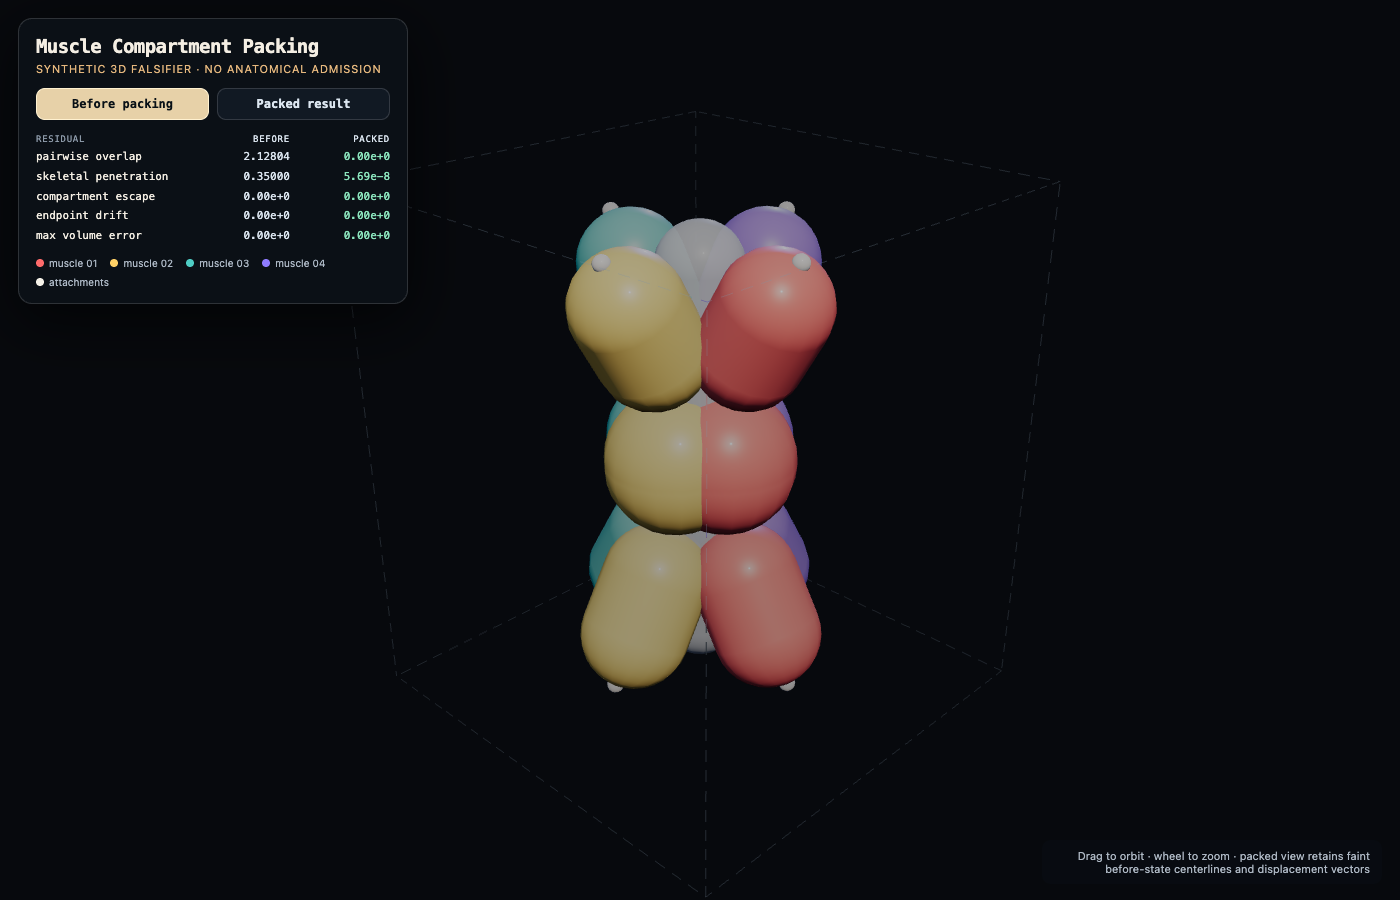
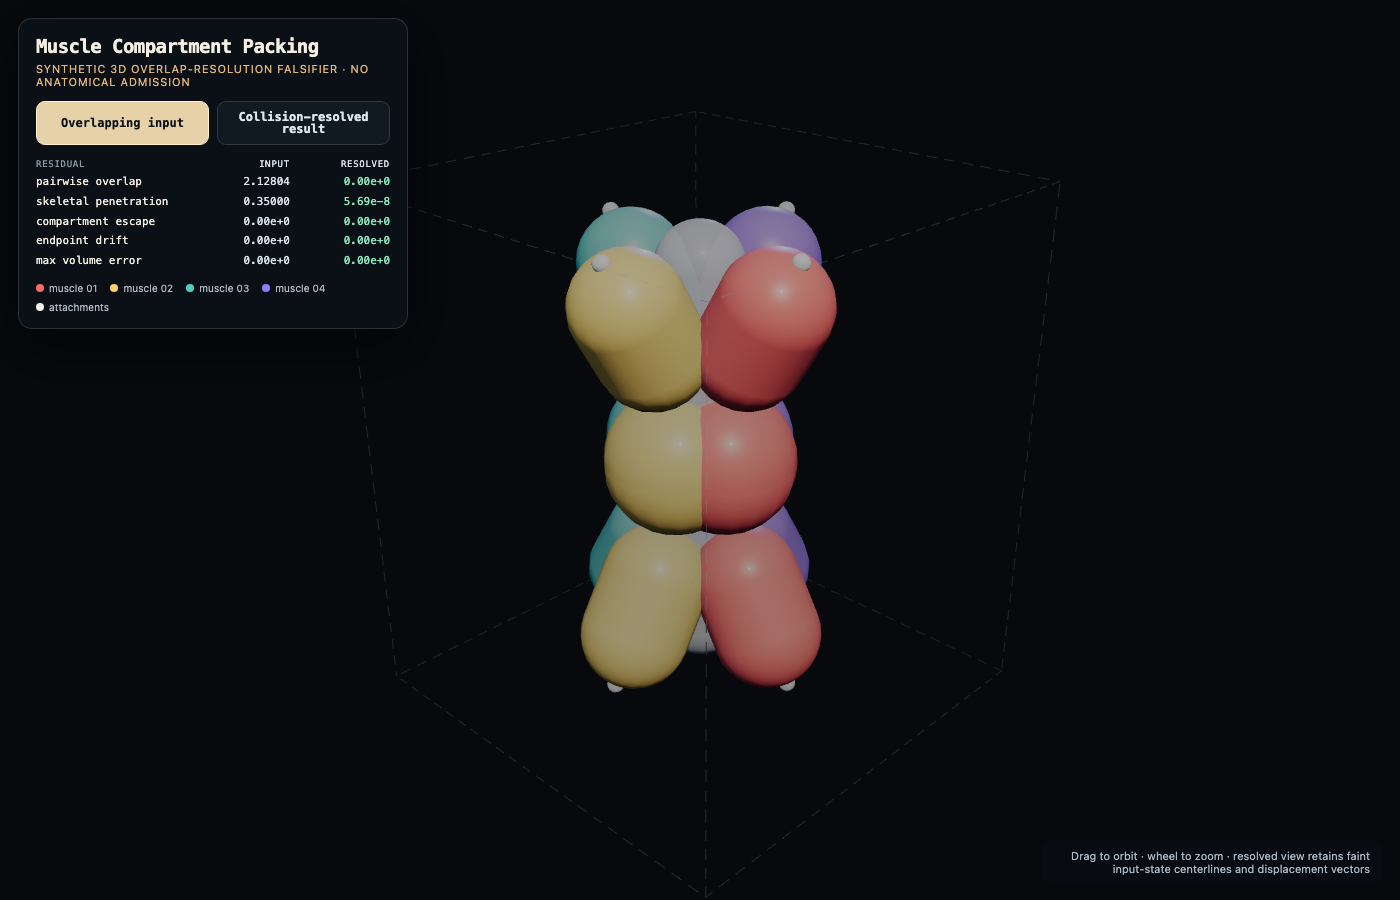
morphology: clarify overlap resolution witness

Changed region(s): [[0.0, 0.0622, 0.2764, 0.3733], [0.7679, 0.9333, 0.8907, 0.9644]]

diff --git a/artifacts/muscle-compartment-packing-v0/index.html b/artifacts/muscle-compartment-packing-v0/index.html
@@ -3,7 +3,7 @@
 <head>
   <meta charset="utf-8">
   <meta name="viewport" content="width=device-width,initial-scale=1">
-  <title>Muscle Compartment Packing · Before / Packed</title>
+  <title>Muscle Compartment Packing · Overlapping Input / Collision-Resolved Result</title>
   <style>
     :root { color-scheme: dark; font-family: Inter, ui-sans-serif, system-ui, sans-serif; }
     * { box-sizing: border-box; }
@@ -31,13 +31,13 @@
   <div id="viewport"></div>
   <section class="panel" aria-label="Packing witness controls and residuals">
     <h1>Muscle Compartment Packing</h1>
-    <p class="authority">Synthetic 3D falsifier · no anatomical admission</p>
+    <p class="authority">Synthetic 3D overlap-resolution falsifier · no anatomical admission</p>
     <div class="controls">
-      <button data-state="before">Before packing</button>
-      <button data-state="packed">Packed result</button>
+      <button data-state="before">Overlapping input</button>
+      <button data-state="packed">Collision-resolved result</button>
     </div>
     <div class="metrics">
-      <span class="head">residual</span><span class="head value">before</span><span class="head value">packed</span>
+      <span class="head">residual</span><span class="head value">input</span><span class="head value">resolved</span>
       <span>pairwise overlap</span><span class="value">2.12804</span><span class="value packed">0.00e+0</span>
       <span>skeletal penetration</span><span class="value">0.35000</span><span class="value packed">5.69e-8</span>
       <span>compartment escape</span><span class="value">0.00e+0</span><span class="value packed">0.00e+0</span>
@@ -52,7 +52,7 @@
       <span><i class="swatch" style="background:#f5f1e8"></i>attachments</span>
     </div>
   </section>
-  <div class="hint">Drag to orbit · wheel to zoom · packed view retains faint before-state centerlines and displacement vectors</div>
+  <div class="hint">Drag to orbit · wheel to zoom · resolved view retains faint input-state centerlines and displacement vectors</div>
   <script type="module">
     import * as THREE from 'three';
     import { OrbitControls } from 'three/addons/controls/OrbitControls.js';
